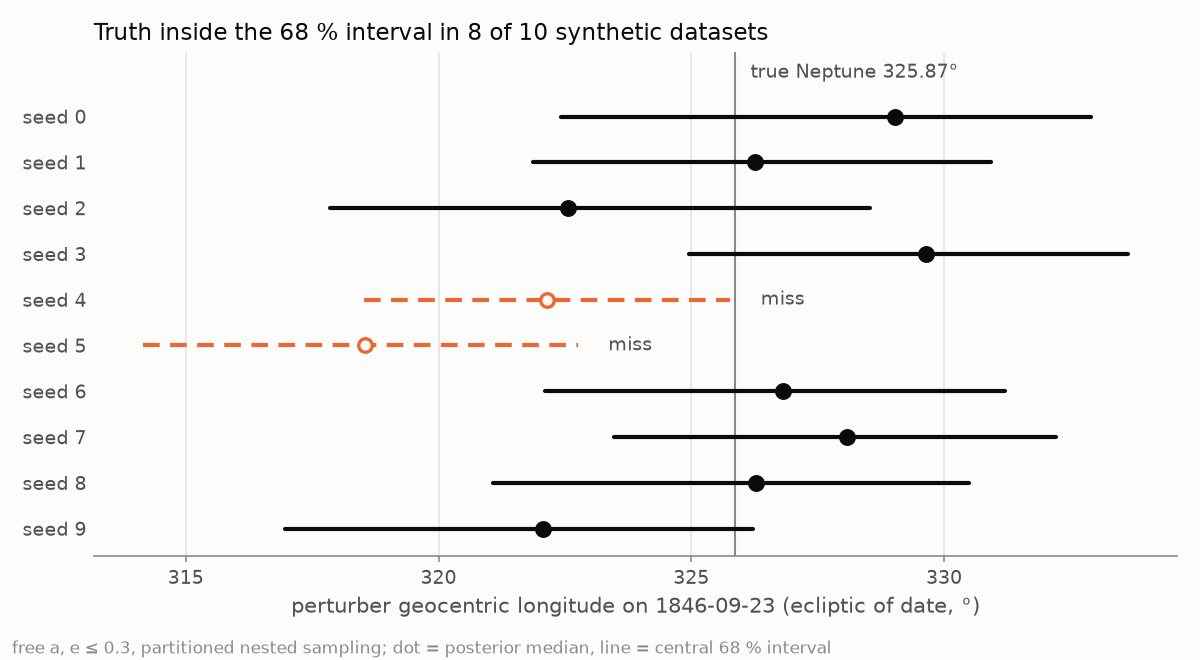
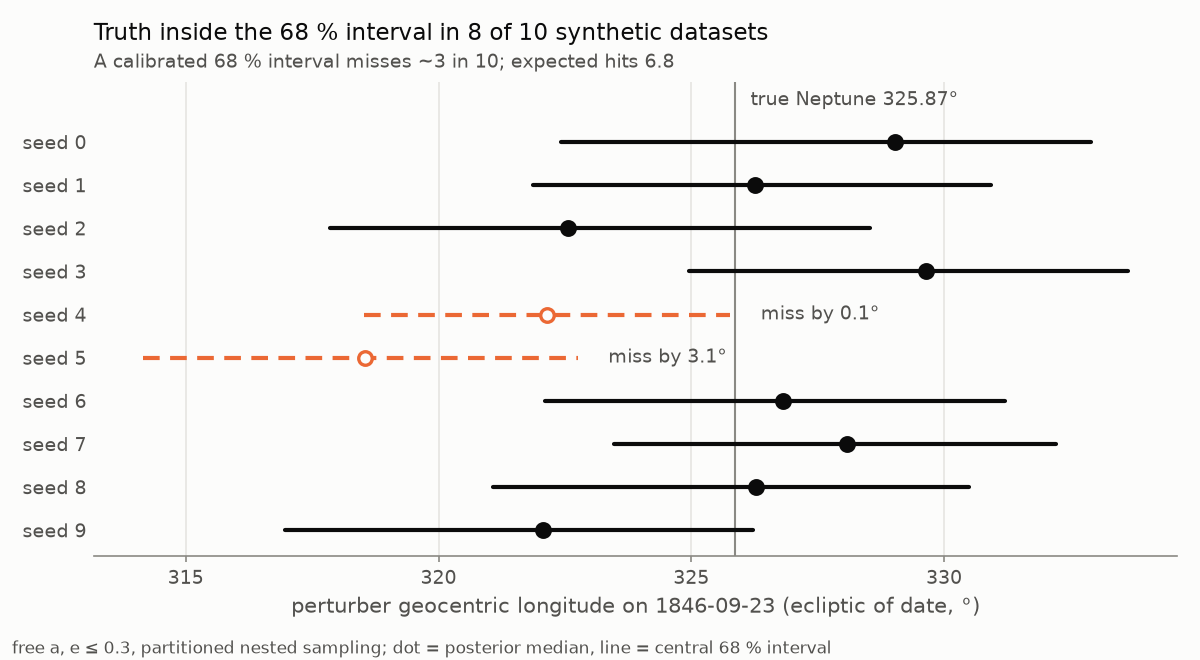
Coverage figure: calibration subtitle (expected hits from p_true), computed 'miss by' labels, key text one step darker

diff --git a/docs/notes/scripts/m5b_coverage_plot.py b/docs/notes/scripts/m5b_coverage_plot.py
@@ -45,8 +45,10 @@ def main() -> None:
         ax.plot([lo, hi], [y, y], color=c, lw=2, solid_capstyle="round",
                 ls="-" if hit else (0, (4, 2.5)))  # fmt: skip
         ax.plot(med, y, "o", ms=6.5, mec=c, mew=1.6, mfc=c if hit else SURFACE, zorder=3)
-        if not hit:
-            ax.text(hi + 0.6, y, "miss", color=INK_2, va="center", fontsize=9)
+        if not hit:  # distance from the truth to the nearer interval end
+            miss_deg = lo - truth if truth < lo else truth - hi
+            ax.text(hi + 0.6, y, f"miss by {miss_deg:.1f}°", color=INK_2, va="center",
+                    fontsize=9)  # fmt: skip
     ax.axvline(truth, color=INK_MUTED, lw=1, zorder=0)
     ax.text(truth + 0.3, 0.75, f"true Neptune {truth:.2f}°", color=INK_2, fontsize=9,
             va="bottom")  # fmt: skip
@@ -57,7 +59,11 @@ def main() -> None:
                   color=INK_2)  # fmt: skip
     ax.set_title(f"Truth inside the 68 % interval in {cal['n_truth_in_68']} of "
                  f"{cal['n_seeds']} synthetic datasets", loc="left", color=INK,
-                 fontsize=11)  # fmt: skip
+                 fontsize=11, pad=20)  # fmt: skip
+    p_hit, n = cal["binomial"]["p_true"], cal["n_seeds"]
+    ax.text(0.0, 1.02, f"A calibrated 68 % interval misses ~{round(10 * (1 - p_hit))} in 10; "
+            f"expected hits {n * p_hit:.1f}", transform=ax.transAxes, color=INK_2,
+            fontsize=9, va="bottom")  # fmt: skip
     ax.xaxis.set_major_locator(MultipleLocator(5))
     ax.grid(axis="x", color=GRID, lw=0.8)
     ax.set_axisbelow(True)
@@ -66,7 +72,7 @@ def main() -> None:
     ax.tick_params(colors=INK_2, length=0, labelsize=9)
     ax.tick_params(axis="x", length=3, color=INK_MUTED)
     fig.text(0.01, 0.01, "free a, e ≤ 0.3, partitioned nested sampling; dot = posterior "
-             "median, line = central 68 % interval", color=INK_MUTED, fontsize=8)  # fmt: skip
+             "median, line = central 68 % interval", color=INK_2, fontsize=8)  # fmt: skip
     fig.tight_layout(rect=(0, 0.03, 1, 1))
     fig.savefig(OUT, facecolor=SURFACE)
     print(f"wrote {OUT}")
